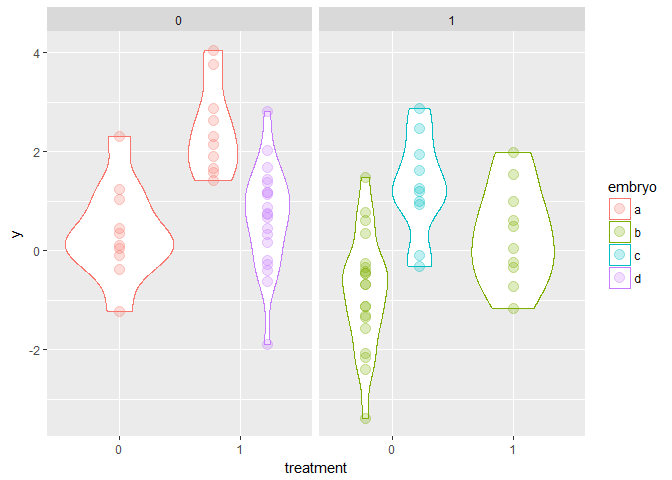
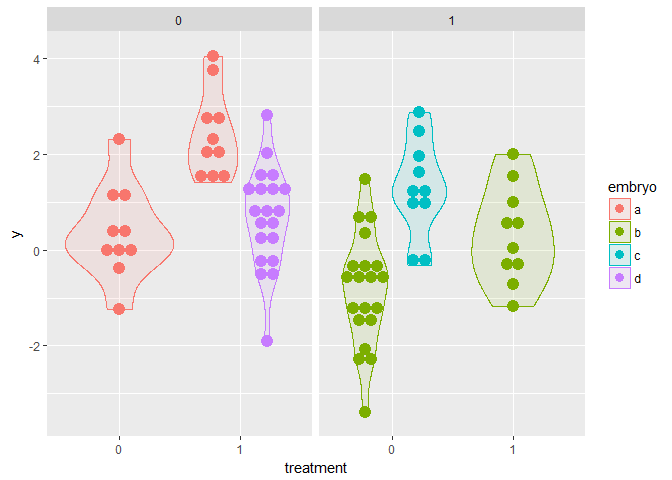
update plots

diff --git a/pseudoreplication.md b/pseudoreplication.md
@@ -34,9 +34,9 @@ y0 = c(rnorm(n*5, 0, sd.control),
 
 df$y <- y0 + df$ranef.em + df$ranef.mo
 
-ggplot(df, aes(x = treatment, y = y, colour = embryo)) + 
-  geom_violin() +
-  geom_point(position = position_dodge(width = 0.9), alpha = 1/4, size = 7/2) +
+ggplot(df, aes(x = treatment, y = y, colour = embryo, fill = embryo)) + 
+  geom_violin(alpha = 0.1) +
+  geom_dotplot(binaxis='y', stackdir='center', position = "dodge") +
   facet_wrap(~mother)
 ```
 
@@ -119,9 +119,9 @@ df$ranef.mo <- c(rnorm(n*10, random.mother.effect[1L], 0.1),
 
 df$y <- y0 + df$ranef.em + df$ranef.mo
 
-ggplot(df, aes(x = treatment, y = y, colour = embryo)) + 
-  geom_violin() +
-  geom_point(position = position_dodge(width = 0.9), alpha = 1/4, size = 7/2) +
+ggplot(df, aes(x = treatment, y = y, colour = embryo, fill = embryo)) + 
+  geom_violin(alpha = 0.1) +
+  geom_dotplot(binaxis='y', stackdir='center', position = "dodge") +
   facet_wrap(~mother)
 ```
 
